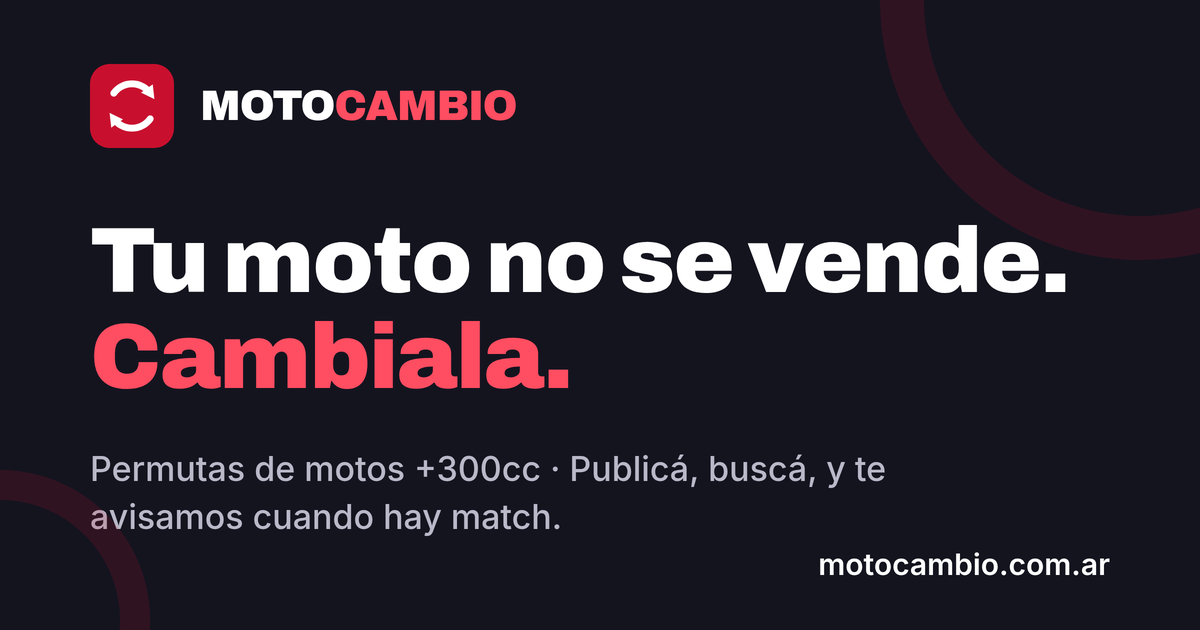
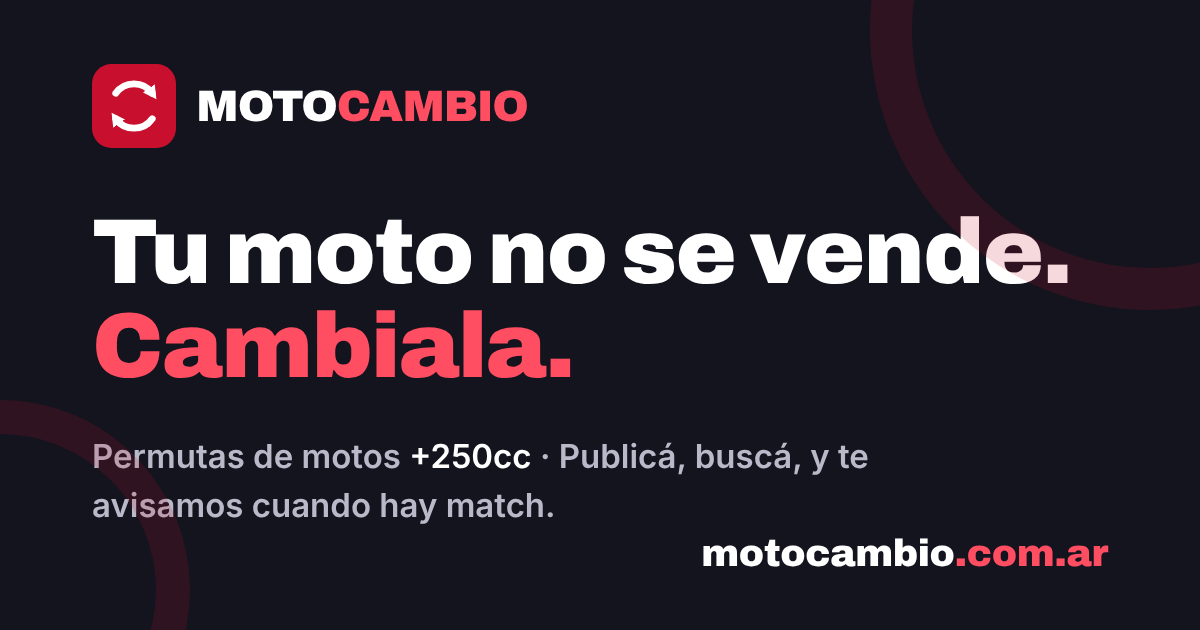
Add files via upload

diff --git a/src/app/garage/page.tsx b/src/app/garage/page.tsx
@@ -7,6 +7,7 @@ import { type ModeloCatalogo } from "@/components/Autocompletar";
 import { SelectorModelo } from "@/components/SelectorModelo";
 import { SeBuscan } from "@/components/SeBuscan";
 import { ConsultasOportunidades } from "@/components/ConsultasOportunidades";
+import { CC_MINIMO_PUBLICACION } from "@/reglas";
 
 const PROVINCIAS = [
   "CABA", "Buenos Aires", "Córdoba", "Santa Fe", "Mendoza", "Tucumán",
@@ -361,8 +362,8 @@ export default function Garage() {
       if (error) {
         setGuardandoMoto(false);
         avisar(
-          error.message.includes("300")
-            ? "Ese modelo es de menos de 300cc: solo puede quedar como moto de entrega."
+          error.message.includes("250") || error.message.includes("300")
+            ? "Ese modelo es de menos de 250cc: solo puede quedar como moto de entrega."
             : "No se pudo guardar: " + error.message
         );
         return;
@@ -426,8 +427,8 @@ export default function Garage() {
     if (error || !nueva) {
       setGuardandoMoto(false);
       avisar(
-        error?.message.includes("300")
-          ? "Ese modelo es de menos de 300cc: cargalo como moto de entrega."
+        error?.message.includes("250") || error?.message.includes("300")
+          ? "Ese modelo es de menos de 250cc: cargalo como moto de entrega."
           : "No se pudo guardar: " + (error?.message || "error")
       );
       return;
@@ -926,9 +927,9 @@ export default function Garage() {
                     {catalogo.length > 0 && <NotaFaltaModelo total={catalogo.length} />}
                   </div>
                 )}
-                {modeloSel && modeloSel.cilindrada < 280 && (
+                {modeloSel && modeloSel.cilindrada < CC_MINIMO_PUBLICACION && (
                   <p className="text-xs text-ambar mt-1.5">
-                    Este modelo es de menos de 300cc: solo puede cargarse como <b>moto de entrega</b>.
+                    Este modelo es de menos de 250cc: solo puede cargarse como <b>moto de entrega</b>.
                   </p>
                 )}
               </div>
@@ -967,11 +968,11 @@ export default function Garage() {
                 Visibilidad
                 <div className="mt-1.5 flex gap-2">
                   <button type="button" onClick={() => setVisibilidad("publicada")}
-                    disabled={!!modeloSel && modeloSel.cilindrada < 280}
+                    disabled={!!modeloSel && modeloSel.cilindrada < CC_MINIMO_PUBLICACION}
                     className={`flex-1 rounded-xl border-2 px-3 py-2.5 text-sm font-semibold disabled:opacity-40 ${
                       visibilidad === "publicada" ? "border-rojo bg-[#FBF0F1] text-rojo" : "border-linea text-tinta2"
                     }`}>
-                    Publicada (+300cc)
+                    Publicada (+250cc)
                   </button>
                   <button type="button" onClick={() => setVisibilidad("entrega")}
                     className={`flex-1 rounded-xl border-2 px-3 py-2.5 text-sm font-semibold ${
@@ -1120,7 +1121,7 @@ export default function Garage() {
           <section id="que-busco" className="min-w-0 bg-white border border-linea rounded-2xl shadow-sm p-6 scroll-mt-24">
             <h2 className="font-titulos font-extrabold text-xl mb-1">🎯 Qué busco</h2>
             <p className="text-sm text-gris mb-5">
-              Podés buscar cualquier cilindrada: publicás +300, pedís lo que quieras.
+              Podés buscar cualquier cilindrada: publicás +250, pedís lo que quieras.
             </p>
             <div className="flex flex-col gap-4">
               <div>

diff --git a/src/app/page.tsx b/src/app/page.tsx
@@ -85,11 +85,11 @@ const FAQS: [string, string][] = [
   ],
   [
     "¿Qué motos se pueden publicar?",
-    "Se publican motos de 300 cc en adelante, de cualquier marca y en todo el país. Pero a cambio podés pedir o aceptar lo que quieras: un scooter 0 km, una moto de menor cilindrada más diferencia a tu favor, o directamente efectivo. La moto tiene que estar a tu nombre o tener el 08 firmado por el titular.",
+    "Se publican motos de 250 cc en adelante, de cualquier marca y en todo el país (desde noviembre de 2026 bajamos el piso de 300 a 250, por pedido de la comunidad). Pero a cambio podés pedir o aceptar lo que quieras: un scooter 0 km, una moto de menor cilindrada más diferencia a tu favor, o directamente efectivo. La moto tiene que estar a tu nombre o tener el 08 firmado por el titular.",
   ],
   [
-    "Tengo una moto de menos de 300 cc y quiero una más grande, ¿puedo?",
-    "Sí, con la moto de entrega: cargás tu moto (de cualquier cilindrada) junto con la búsqueda de la que querés. Tu moto no aparece en los listados — la vidriera es solo +300 cc — pero el motor de matching sí la ve: si el dueño de la moto que buscás acepta la tuya como parte de pago, se produce el match igual.",
+    "Tengo una moto de menos de 250 cc y quiero una más grande, ¿puedo?",
+    "Sí, con la moto de entrega: cargás tu moto (de cualquier cilindrada) junto con la búsqueda de la que querés. Tu moto no aparece en los listados — la vidriera es solo +250 cc — pero el motor de matching sí la ve: si el dueño de la moto que buscás acepta la tuya como parte de pago, se produce el match igual.",
   ],
 ];
 
@@ -121,6 +121,14 @@ export default function Inicio() {
       <RescateCodigo />
       <HeaderApp logueado={logueado} activo="inicio" />
 
+      {/* Banda de anuncio: baja del piso a 250cc (1/11/2026) */}
+      <Link href={logueado ? "/garage" : "/registro"}
+        className="block bg-rojo text-white text-center text-[13px] sm:text-sm font-semibold px-4 py-2.5 hover:bg-rojo-oscuro transition-colors">
+        🏍 <b className="font-titulos font-extrabold">Nuevo:</b> por pedido de la
+        comunidad, ahora se publican motos <b className="font-titulos font-extrabold">desde 250cc</b>.
+        ¿Tenés una? Subila gratis →
+      </Link>
+
       {/* ---------- HÉROE ---------- */}
       <section className="relative text-white overflow-hidden bg-asfalto">
         {/* eslint-disable-next-line @next/next/no-img-element */}
@@ -131,7 +139,7 @@ export default function Inicio() {
         <div className="absolute inset-0 bg-gradient-to-b from-asfalto/80 via-asfalto/55 to-asfalto/85" />
         <div className="relative max-w-5xl mx-auto px-4 py-20 sm:py-28 text-center flex flex-col items-center gap-5">
           <p className="text-xs uppercase tracking-widest font-bold text-[#8A8A9E]">
-            Permutas de motos +300 cc · Argentina
+            Permutas de motos +250 cc · Argentina
           </p>
           <h1 className="font-titulos font-black text-4xl sm:text-5xl leading-tight tracking-tight max-w-xl">
             Tu moto no se vende.
@@ -383,7 +391,7 @@ export default function Inicio() {
                 <Wordmark />
               </div>
               <p className="text-xs text-[#8A8A9E] mt-3 leading-relaxed">
-                La primera plataforma argentina de permutas de motos +300cc.
+                La primera plataforma argentina de permutas de motos +250cc.
                 Beta cerrada · primavera 2026.
               </p>
             </div>

diff --git a/src/app/layout.tsx b/src/app/layout.tsx
@@ -20,10 +20,10 @@ export const metadata: Metadata = {
     template: "%s · Motocambio",
   },
   description:
-    "La primera plataforma argentina de permutas de motos +300cc. Publicá la que tenés, contá cuál buscás, y te avisamos cuando hay match.",
+    "La primera plataforma argentina de permutas de motos +250cc. Publicá la que tenés, contá cuál buscás, y te avisamos cuando hay match.",
   keywords: [
     "permuta de motos", "cambio de motos", "permuto moto", "motos usadas argentina",
-    "cambiar moto", "permuta motos 300cc", "trueque de motos",
+    "cambiar moto", "permuta motos 250cc", "trueque de motos",
   ],
   alternates: { canonical: "/" },
   openGraph: {
@@ -33,13 +33,13 @@ export const metadata: Metadata = {
     siteName: "Motocambio",
     title: "Motocambio — Tu moto no se vende. Cambiala.",
     description:
-      "Publicá la moto que tenés, contá cuál buscás, y te avisamos cuando hay match. Permutas de motos +300cc en Argentina.",
+      "Publicá la moto que tenés, contá cuál buscás, y te avisamos cuando hay match. Permutas de motos +250cc en Argentina.",
   },
   twitter: {
     card: "summary_large_image",
     title: "Motocambio — Tu moto no se vende. Cambiala.",
     description:
-      "La primera plataforma argentina de permutas de motos +300cc. Gratis durante la beta.",
+      "La primera plataforma argentina de permutas de motos +250cc. Gratis durante la beta.",
   },
 };
 

diff --git a/src/reglas.ts b/src/reglas.ts
@@ -1,0 +1,11 @@
+// ============================================================
+//  REGLAS DE NEGOCIO DE MOTOCAMBIO
+// ============================================================
+//  Piso de cilindrada para PUBLICAR en la vidriera.
+//  Desde el 1/11/2026: 240cc reales = "desde 250cc" nominales
+//  (la Tornado, FZ25, XTZ, Dominar, etc. tienen 244-249cc reales).
+//  Las de motor más chico pueden cargarse igual como moto de
+//  entrega: no salen en listados pero el matching las ve.
+//  OJO: la base valida lo mismo del lado del servidor — si se
+//  cambia este número hay que cambiar también la validación SQL.
+export const CC_MINIMO_PUBLICACION = 240;

diff --git a/src/app/terminos/page.tsx b/src/app/terminos/page.tsx
@@ -46,7 +46,7 @@ export default function Terminos() {
           <section>
             <h2 className="font-titulos font-extrabold text-asfalto mb-1">3. Reglas de publicación</h2>
             <p>
-              Se publican motos de 300 cc en adelante, a nombre del usuario o
+              Se publican motos de 250 cc en adelante, a nombre del usuario o
               con el formulario 08 firmado por el titular. Las motos de menor
               cilindrada pueden registrarse como &quot;moto de entrega&quot;: no
               aparecen en los listados, pero participan del matching. Las

diff --git a/src/app/explorar/page.tsx b/src/app/explorar/page.tsx
@@ -104,7 +104,7 @@ export default function Explorar() {
       <main className="max-w-5xl mx-auto px-4 py-8 pb-24">
         <h1 className="font-titulos font-black text-3xl tracking-tight">Explorar motos</h1>
         <p className="text-gris mt-1 mb-6">
-          Todas +300cc, todas para cambiar. ¿Viste una que te gusta? Sumala a tu búsqueda y que el matching trabaje.
+          Todas +250cc, todas para cambiar. ¿Viste una que te gusta? Sumala a tu búsqueda y que el matching trabaje.
         </p>
 
         <SeBuscan logueado={logueado} compacto />

diff --git a/src/components/Autocompletar.tsx b/src/components/Autocompletar.tsx
@@ -1,5 +1,6 @@
 "use client";
 import { useMemo, useState } from "react";
+import { CC_MINIMO_PUBLICACION } from "@/reglas";
 
 export interface ModeloCatalogo {
   id: number;
@@ -26,7 +27,7 @@ export function Autocompletar({
 
   const opciones = useMemo(() => {
     const base = soloPublicables
-      ? catalogo.filter((m) => m.cilindrada >= 280)
+      ? catalogo.filter((m) => m.cilindrada >= CC_MINIMO_PUBLICACION)
       : catalogo;
     const q = texto.trim().toLowerCase().replace(/\s+/g, " ");
     if (!q) return base.slice(0, 8);

diff --git a/src/app/explorar/layout.tsx b/src/app/explorar/layout.tsx
@@ -2,7 +2,7 @@ import type { Metadata } from "next";
 
 export const metadata: Metadata = {
   title: "Explorar motos en permuta",
-  description: "Todas las motos +300cc publicadas para cambiar en Argentina. Filtrá por marca y provincia, mirá fotos y precios, y sumá la que te gusta a tu búsqueda.",
+  description: "Todas las motos +250cc publicadas para cambiar en Argentina. Filtrá por marca y provincia, mirá fotos y precios, y sumá la que te gusta a tu búsqueda.",
   alternates: { canonical: "/explorar" },
 };
 
